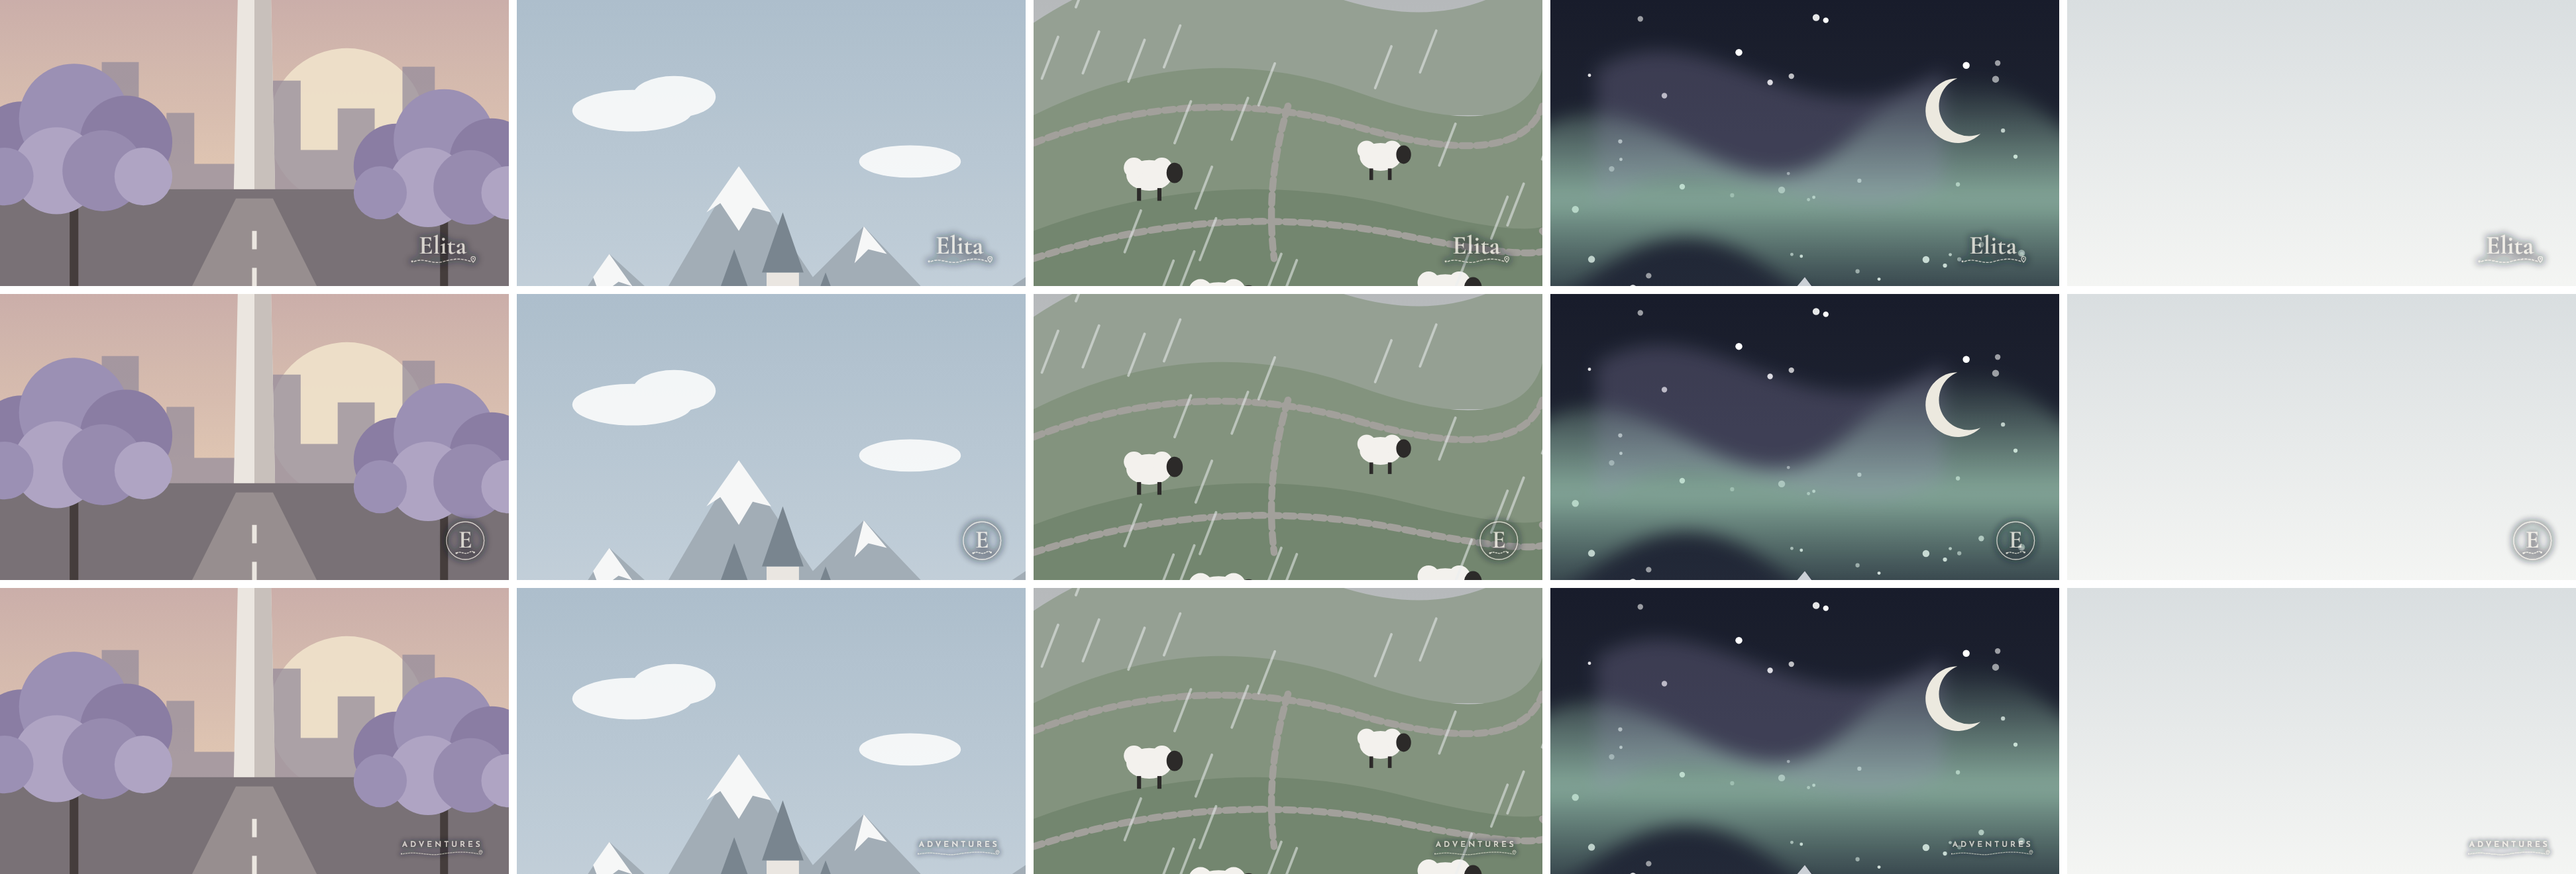
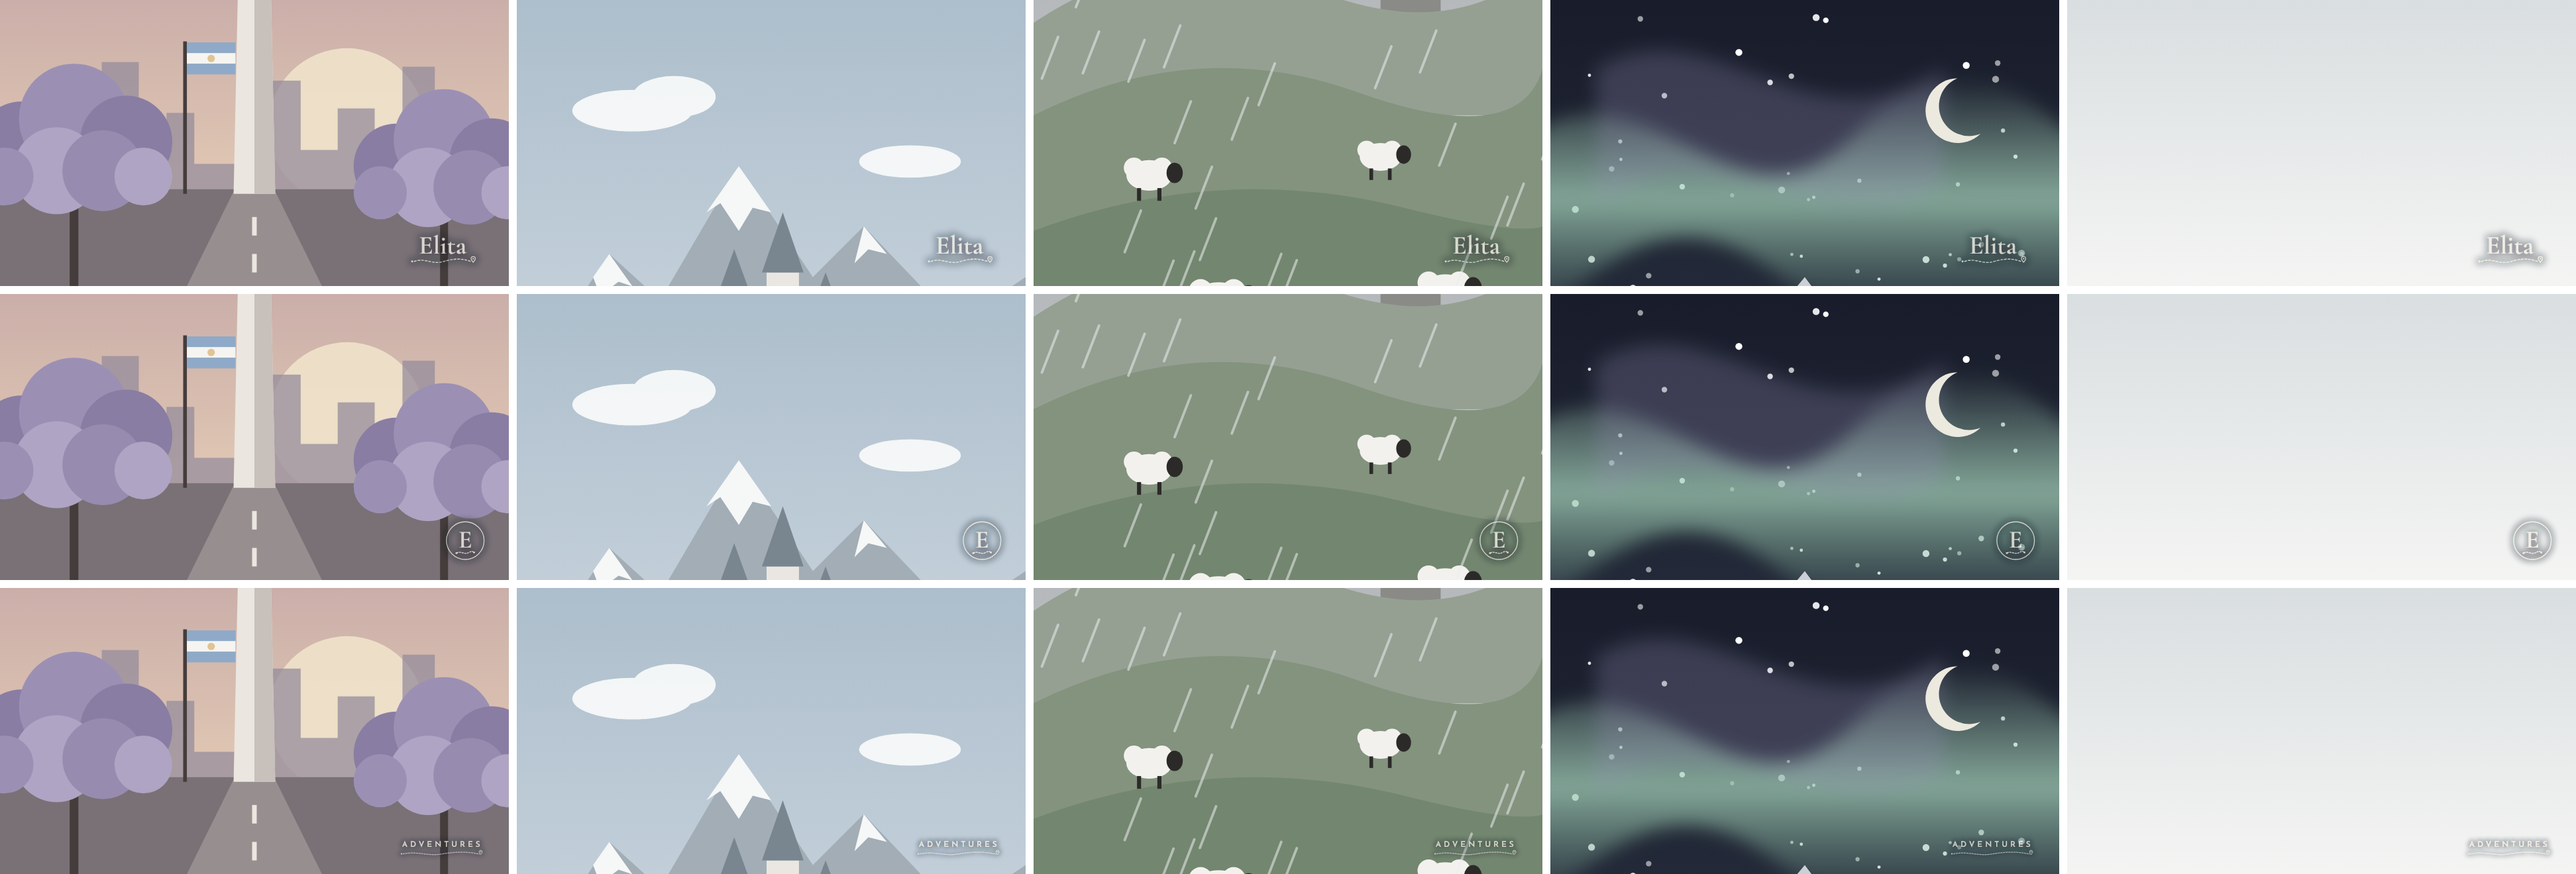
Elita: ajustes en las 4 ventanas (calle hasta el Obelisco + bandera, colina verde y puerta en el castillo, torre de Irlanda sin flotar y sin muros, sin óvalo en el lago)
Regenera logo (logo.py ahora genera el logo elegido, verificado contra los PNG
originales), banners de YouTube y vistas previas.

Claude-Session: https://claude.ai/code/session_01QcE6ahXjMRX9nuFAhFcmJW

diff --git a/elita-aventuras/scripts/logo.py b/elita-aventuras/scripts/logo.py
@@ -25,10 +25,12 @@ P['ar_ba']=f'''
 <rect width="220" height="320" fill="url(#s1)"/>
 <circle cx="150" cy="205" r="34" fill="#f8dfb2" opacity=".95"/>
 <path d="M0 215 h20 v-22 h14 v14 h10 v-30 h16 v38 h12 v-16 h12 v22 h20 v-12 h14 v-24 h12 v30 h16 v-18 h16 v10 h12 v-28 h14 v34 h22 V320 H0Z" fill="#9a8aa6" opacity=".75"/>
-<path d="M104 92 L110 70 L116 92 L119 236 L101 236Z" fill="#efe6da"/><path d="M110 70 L116 92 L119 236 L110 236Z" fill="#cdbfb5"/>
 <rect x="0" y="232" width="220" height="88" fill="#7d6f78"/>
-<path d="M60 320 L102 236 L118 236 L160 320Z" fill="#9c8c8e"/>
-<path d="M110 250 V320" stroke="#efe6da" stroke-width="2" stroke-dasharray="8 8"/>
+<path d="M58 320 L101 233 L119 233 L162 320Z" fill="#9c8c8e"/>
+<path d="M110 244 V320" stroke="#efe6da" stroke-width="2" stroke-dasharray="8 8"/>
+<path d="M104 92 L110 70 L116 92 L119 234 L101 234Z" fill="#efe6da"/><path d="M110 70 L116 92 L119 234 L110 234Z" fill="#cdbfb5"/>
+<line x1="80" y1="234" x2="80" y2="168" stroke="#4a3b3a" stroke-width="1.6"/>
+<g transform="translate(80.8,168.5)"><rect width="21" height="4.6" fill="#74acdf"/><rect y="4.6" width="21" height="4.6" fill="#f6f4ee"/><rect y="9.2" width="21" height="4.6" fill="#74acdf"/><circle cx="10.5" cy="6.9" r="1.6" fill="#f2c14e"/></g>
 {jacaranda(32,214,1.25)}{jacaranda(192,222,1.15)}
 <g fill="#b3a0d6" opacity=".9"><circle cx="30" cy="300" r="3"/><circle cx="48" cy="292" r="2.5"/><circle cx="178" cy="304" r="3"/><circle cx="196" cy="296" r="2.4"/><circle cx="60" cy="310" r="2"/></g>'''
 P['ar_pat']=f'''
@@ -52,9 +54,10 @@ P['de']=f'''
 <path d="M96 72 L110 92 L102 90 L96 100 L88 88 L82 92Z M40 110 L50 124 L44 122 L36 128 L33 120Z M150 98 L160 110 L152 108 L146 114Z" fill="#f5f7f8"/>
 <path d="M0 210 Q50 170 110 190 T220 180 V320 H0Z" fill="#5f7d5e"/>
 <g>{''.join(pine(x,y,h,'#46634a') for x,y,h in [(14,222,40),(34,214,34),(186,212,36),(206,220,42),(170,226,30)])}</g>
-<path d="M58 260 Q70 214 88 200 L100 192 L130 190 L144 204 Q160 230 170 260Z" fill="#8a8578"/><path d="M88 200 L100 192 L112 192 L98 226 L80 240Z" fill="#a19b8c"/>{''.join(pine(x,y,h,'#4c6a4f') for x,y,h in [(62,262,30),(76,266,26),(156,262,28),(170,268,32)])}
+<path d="M58 260 Q70 214 88 200 L100 192 L130 190 L144 204 Q160 230 170 260Z" fill="#6e8a63"/><path d="M88 200 L100 192 L112 192 L98 226 L80 240Z" fill="#7f9b72"/>{''.join(pine(x,y,h,'#4c6a4f') for x,y,h in [(62,262,30),(76,266,26),(156,262,28),(170,268,32)])}
 <g fill="#ece6dc"><rect x="96" y="150" width="36" height="44"/><rect x="88" y="130" width="12" height="64"/><rect x="128" y="138" width="11" height="56"/><rect x="108" y="118" width="14" height="40"/></g>
 <g fill="#6f8698"><path d="M86 130 L94 108 L102 130Z"/><path d="M126 138 L133.5 118 L141 138Z"/><path d="M106 118 L115 92 L124 118Z"/><path d="M94 150 L114 138 L134 150Z"/></g>
+<path d="M108.5 194 V183 a5.5 5.5 0 0 1 11 0 V194Z" fill="#6f7f8c"/>
 <g fill="#7c8a96"><rect x="92" y="140" width="3" height="6"/><rect x="113" y="128" width="4" height="7"/><rect x="104" y="162" width="3" height="7"/><rect x="113" y="162" width="3" height="7"/><rect x="122" y="162" width="3" height="7"/><rect x="132" y="150" width="3" height="6"/></g>
 <path d="M0 262 Q60 240 130 258 T220 250 V320 H0Z" fill="#6f8f68"/>
 <path d="M0 290 Q80 276 150 290 T220 286 V320 H0Z" fill="#587a55"/>'''
@@ -62,13 +65,11 @@ P['ie']=f'''
 <defs><linearGradient id="s3" x1="0" y1="0" x2="0" y2="1"><stop offset="0" stop-color="#9aa3a8"/><stop offset="1" stop-color="#cfd4d3"/></linearGradient></defs>
 <rect width="220" height="320" fill="url(#s3)"/>
 <g fill="#b4babc"><ellipse cx="60" cy="40" rx="60" ry="20"/><ellipse cx="170" cy="30" rx="70" ry="22"/></g>
-<path d="M0 160 Q60 120 120 145 T220 135 V200 H0Z" fill="#8ea38a"/>
-<g fill="#8b8a84"><rect x="150" y="112" width="18" height="30"/><path d="M150 112 v-6 h4 v4 h4 v-4 h4 v6 h-12" /><rect x="166" y="122" width="10" height="20"/></g>
+<g fill="#8b8a84"><rect x="150" y="112" width="18" height="60"/><path d="M150 112 v-6 h4 v4 h4 v-4 h4 v6 h-12" /><rect x="166" y="122" width="10" height="50"/></g>
 <rect x="156" y="120" width="3" height="5" fill="#5e5d58"/>
+<path d="M0 160 Q60 120 120 145 T220 135 V200 H0Z" fill="#8ea38a"/>
 <path d="M0 200 Q70 165 140 190 T220 180 V320 H0Z" fill="#79976e"/>
 <path d="M0 250 Q80 220 160 240 T220 236 V320 H0Z" fill="#668a5d"/>
-<g fill="none" stroke="#a3a097" stroke-width="3" stroke-dasharray="4 2.5" stroke-linecap="round">
-<path d="M0 212 Q70 185 140 205 T220 196"/><path d="M0 262 Q80 236 160 252 T220 250"/><path d="M110 196 Q100 230 104 262"/></g>
 {sheep(50,226,1.1)}{sheep(150,218,1)}{sheep(80,280,1.3)}{sheep(178,276,1.2)}
 {rain()}'''
 P['nt']=f'''
@@ -83,7 +84,6 @@ P['nt']=f'''
 <path d="M110 120 L122 136 L114 134 L108 142 L100 132Z" fill="#c8d0dc"/>
 <rect x="0" y="212" width="220" height="50" fill="#1b2a40"/>
 <g filter="url(#bl)" opacity=".45"><path d="M-10 230 C40 250 80 222 130 240 S200 236 240 228 L240 250 L-10 252Z" fill="#7fd9ae"/></g>
-<ellipse cx="183" cy="226" rx="10" ry="2" fill="#efe9d6" opacity=".35"/>
 <path d="M0 262 H220 V320 H0Z" fill="#121a2a"/>
 {''.join(pine(x,y,h,'#0f1a24') for x,y,h in [(10,300,80),(32,296,60),(54,304,95),(170,302,90),(194,298,70),(214,304,100)])}'''
 def logo(order, sat, dark=False, size_scale=1, dash='', marks=True):
@@ -111,25 +111,59 @@ def logo(order, sat, dark=False, size_scale=1, dash='', marks=True):
     th=H+315
     return tw,th,f'<svg xmlns="http://www.w3.org/2000/svg" width="{tw}" height="{th}" viewBox="0 0 {tw} {th}"><defs><filter id="sat"><feColorMatrix type="saturate" values="{sat}"/></filter></defs><g filter="url(#sat)">{panels}</g>{text}</svg>'
 CSS='@font-face{font-family:CG;src:url(../fuentes/CG.ttf);font-weight:300 700}@font-face{font-family:JS;src:url(../fuentes/JS.ttf);font-weight:100 700}html,body{margin:0}'
-async def main():
-    [os.makedirs(f'out/{d}',exist_ok=True) for d in ('1-camino-punteado','2-camino-continuo','3-camino-puntos')]
+# Logo elegido "Elita-Logo-camino": camino suave (la curva de yt.trail), más arriba que en la v2.
+# Estilos del camino: punteado, continuo y puntos (mismos trazos que yt.STYLES).
+CAMINOS=[('1-camino-punteado','stroke-dasharray="9 9" stroke-width="2.6"'),('2-camino-continuo','stroke-width="2.6"'),('3-camino-puntos','stroke-dasharray="0.1 11" stroke-width="5.5"')]
+def logo_camino(sat,dash,dark=False,order=('ar_ba','de','ie','nt'),lw=520):
+    ink='#EEE7DA' if dark else '#2A2C27'; sand='#C9A978' if dark else '#8C6A3C'
+    tw=len(order)*W+(len(order)-1)*G; th=H+280; cx=tw/2
+    panels=''
+    for i,k in enumerate(order):
+        panels+=f'<g transform="translate({i*(W+G)},0)"><clipPath id="c{i}"><rect width="{W}" height="{H}" rx="22"/></clipPath><g clip-path="url(#c{i})">{P[k]}</g><rect x=".75" y=".75" width="{W-1.5}" height="{H-1.5}" rx="22" fill="none" stroke="{ink}" stroke-opacity=".22" stroke-width="1.5"/></g>'
+    d=f'M14 0 C {lw*.21} -26, {lw*.33} 22, {lw*.5} 2 S {lw*.81} -24, {lw-12} 2'
+    text=f'''<text x="{cx}" y="{H+150}" text-anchor="middle" font-family="CG" font-weight="600" font-size="150" fill="{ink}">Elita</text>
+<g transform="translate({cx-lw/2},{H+185})"><circle cx="0" cy="0" r="6" fill="{sand}"/><path d="{d}" fill="none" stroke="{sand}" stroke-linecap="round" {dash}/>
+<path d="M{lw} 6 c-9 -12 -14 -17 -14 -24 a14 14 0 0 1 28 0 c0 7 -5 12 -14 24z" fill="none" stroke="{sand}" stroke-width="2.8"/><circle cx="{lw}" cy="-18" r="4.5" fill="{sand}"/></g>
+<text x="{cx}" y="{H+250}" text-anchor="middle" font-family="JS" font-weight="600" font-size="40" letter-spacing="17" fill="{ink}">ADVENTURES</text>'''
+    return tw,th,f'<svg xmlns="http://www.w3.org/2000/svg" width="{tw}" height="{th}" viewBox="0 0 {tw} {th}"><defs><filter id="sat"><feColorMatrix type="saturate" values="{sat}"/></filter></defs><g filter="url(#sat)">{panels}</g>{text}</svg>'
+async def main(version):
     async with async_playwright() as p:
         b=await p.chromium.launch(); pg=await b.new_page(device_scale_factor=2)
         async def render(name,svg,w,h,bg=None,pad=60):
+            os.makedirs(os.path.dirname(f'out/{name}.png'),exist_ok=True)
             body=f'<div style="padding:{pad}px;background:{bg or "transparent"};display:inline-block">{svg}</div>'
             open('_l.html','w').write(f'<html><head><meta charset="utf-8"><style>{CSS}</style></head><body>{body}</body></html>')
             await pg.set_viewport_size({'width':int(w+2*pad),'height':int(h+2*pad)})
             await pg.goto('file://'+os.getcwd()+'/_l.html'); await pg.evaluate('document.fonts.ready'); await pg.wait_for_timeout(200)
             await pg.screenshot(path=f'out/{name}.png',omit_background=bg is None,clip={'x':0,'y':0,'width':w+2*pad,'height':h+2*pad})
         order=['ar_ba','de','ie','nt']
-        for pname,dash in [('1-camino-punteado','stroke-dasharray="11 9"'),('2-camino-continuo',''),('3-camino-puntos','stroke-dasharray="0.1 12" stroke-width="6.5"')]:
-          for mname,marks in [('con-salida-y-llegada',True),('sin-salida-ni-llegada',False)]:
-            d=f'{pname}/{mname}'; os.makedirs('out/'+d,exist_ok=True)
-            for sname,sat in [('muy-sobrio',0.55),('color',0.9)]:
-                w,h,svg=logo(order,sat,dash=dash,marks=marks)
-                await render(f'{d}/{sname}_claro',svg,w,h,'#F2EEE6')
-                await render(f'{d}/{sname}_transparente',svg,w,h)
-                w,h,svg=logo(order,sat,dark=True,dash=dash,marks=marks)
-                await render(f'{d}/{sname}_oscuro',svg,w,h,'#1E201D')
+        if version=='camino':
+            for pname,dash in CAMINOS:
+                for sname,sat in [('muy-sobrio',0.55),('color',0.9)]:
+                    w,h,svg=logo_camino(sat,dash)
+                    await render(f'Elita-Logo-camino/{pname}/{sname}_claro',svg,w,h,'#F2EEE6')
+                    await render(f'Elita-Logo-camino/{pname}/{sname}_transparente',svg,w,h)
+                    w,h,svg=logo_camino(sat,dash,dark=True)
+                    await render(f'Elita-Logo-camino/{pname}/{sname}_oscuro',svg,w,h,'#1E201D')
+            # comparación: claro arriba, oscuro abajo; punteado, continuo y puntos (muy sobrio)
+            from PIL import Image
+            tiles=[Image.open(f'out/Elita-Logo-camino/{pn}/muy-sobrio_{t}.png').convert('RGB').resize((1060,720)) for t in ('claro','oscuro') for pn,_ in CAMINOS]
+            sheet=Image.new('RGB',(3180,1440))
+            for k,im in enumerate(tiles): sheet.paste(im,((k%3)*1060,(k//3)*720))
+            sheet.save('out/Elita-Logo-camino/comparar-caminos.jpg',quality=90)
+        else:  # v2: curva marcada, con y sin punto/pin (no elegida)
+            for pname,dash in [('1-camino-punteado','stroke-dasharray="11 9"'),('2-camino-continuo',''),('3-camino-puntos','stroke-dasharray="0.1 12" stroke-width="6.5"')]:
+              for mname,marks in [('con-salida-y-llegada',True),('sin-salida-ni-llegada',False)]:
+                d=f'Elita-Logo-camino-v2/{pname}/{mname}'
+                for sname,sat in [('muy-sobrio',0.55),('color',0.9)]:
+                    w,h,svg=logo(order,sat,dash=dash,marks=marks)
+                    await render(f'{d}/{sname}_claro',svg,w,h,'#F2EEE6')
+                    await render(f'{d}/{sname}_transparente',svg,w,h)
+                    w,h,svg=logo(order,sat,dark=True,dash=dash,marks=marks)
+                    await render(f'{d}/{sname}_oscuro',svg,w,h,'#1E201D')
         await b.close()
-if __name__=='__main__': asyncio.run(main())
+    os.remove('_l.html')
+# Uso: python3 logo.py        → logo elegido (out/Elita-Logo-camino/)
+#      python3 logo.py v2     → variante v2 no elegida (out/Elita-Logo-camino-v2/)
+if __name__=='__main__':
+    import sys; asyncio.run(main(sys.argv[1] if len(sys.argv)>1 else 'camino'))

diff --git a/elita-aventuras/CONTEXTO.md b/elita-aventuras/CONTEXTO.md
@@ -15,10 +15,12 @@ Textos definitivos del banner: "Calles y caminos, sólo con sonido ambiente" (co
 
 Arriba, 4 ventanas (paneles verticales con esquinas redondeadas, 220×320, separación 20), en el orden de un día:
 
-1. Argentina al amanecer: Buenos Aires con el Obelisco, jacarandás lilas, sol bajo, cielo lila → durazno.
-2. Alemania de día: castillo blanco con torres de techo azul pizarra sobre colina rocosa, Alpes nevados y pinos.
-3. Irlanda con lluvia: colinas verdes, muros de piedra, ovejas de cara negra, torre en ruinas, lluvia en diagonal.
-4. Noche: auroras verdes, luna creciente, estrellas, montaña, lago con reflejo y pinos.
+1. Argentina al amanecer: Buenos Aires con el Obelisco, jacarandás lilas, sol bajo, cielo lila → durazno. La avenida llega hasta la base del Obelisco y hay una bandera argentina chica en un mástil.
+2. Alemania de día: castillo blanco con torres de techo azul pizarra y puerta en arco, sobre una colina verde, Alpes nevados y pinos.
+3. Irlanda con lluvia: colinas verdes, ovejas de cara negra, torre en ruinas apoyada detrás de la cresta de la colina, lluvia en diagonal (sin muros de piedra).
+4. Noche: auroras verdes, luna creciente, estrellas, montaña, lago con reflejo de la aurora y pinos.
+
+Ajustes del 15/10 (pedido de Ivan, sin cambiar la estética): calle hasta el Obelisco + bandera, colina del castillo verde + puerta, torre de Irlanda sin flotar y sin las líneas crema de los muros, sin el óvalo gris del lago. Se regeneraron logo, banners, vista previa de la marca de agua y opening (el closing y las fotos de perfil no usan las ventanas).
 
 Descartado: Argentina con Patagonia (`ar_pat` en `logo.py`). Ivan eligió Buenos Aires.
 
@@ -58,6 +60,6 @@ No elegida: "Elita-Logo-camino-v2" (curva más marcada y opción sin punto ni pi
 
 ## Notas de los scripts
 
-- `logo.py`: escenas de las ventanas en SVG (diccionario `P`: `ar_ba`, `ar_pat`, `de`, `ie`, `nt`). Ojo: es la v2, con la curva marcada; el logo elegido usa la curva suave de `yt.trail()`.
+- `logo.py`: escenas de las ventanas en SVG (diccionario `P`: `ar_ba`, `ar_pat`, `de`, `ie`, `nt`). `python3 logo.py` genera el logo elegido (`logo_camino()`, verificado contra los PNG originales); `python3 logo.py v2` la variante no elegida.
 - `yt.py`: `windows()`, `trail()` (estilos `puntos` / `punteado` / `continuo`) y `hills()`.
 - `yt2.py`: `banner(variant='A'|'B'|'C'|'ES'|'EN')` y perfiles (`PERF`). Verificado: reproduce los entregables píxel por píxel.

diff --git a/elita-aventuras/README.md b/elita-aventuras/README.md
@@ -23,7 +23,7 @@ python3 -m playwright install chromium
 cd scripts
 python3 yt2.py     # banners y perfiles → scripts/yt2/
 python3 yt.py      # combinaciones anteriores → scripts/yt/
-python3 logo.py    # logo v2 (curva marcada) → scripts/out/
+python3 logo.py    # logo elegido → scripts/out/Elita-Logo-camino/  (python3 logo.py v2: variante no elegida)
 python3 marca.py   # marcas de agua → scripts/marca/
 python3 video.py [1080|4K] [fps] [opening|closing|todo]   # por defecto 4K 60 todo → scripts/video/
 ```
